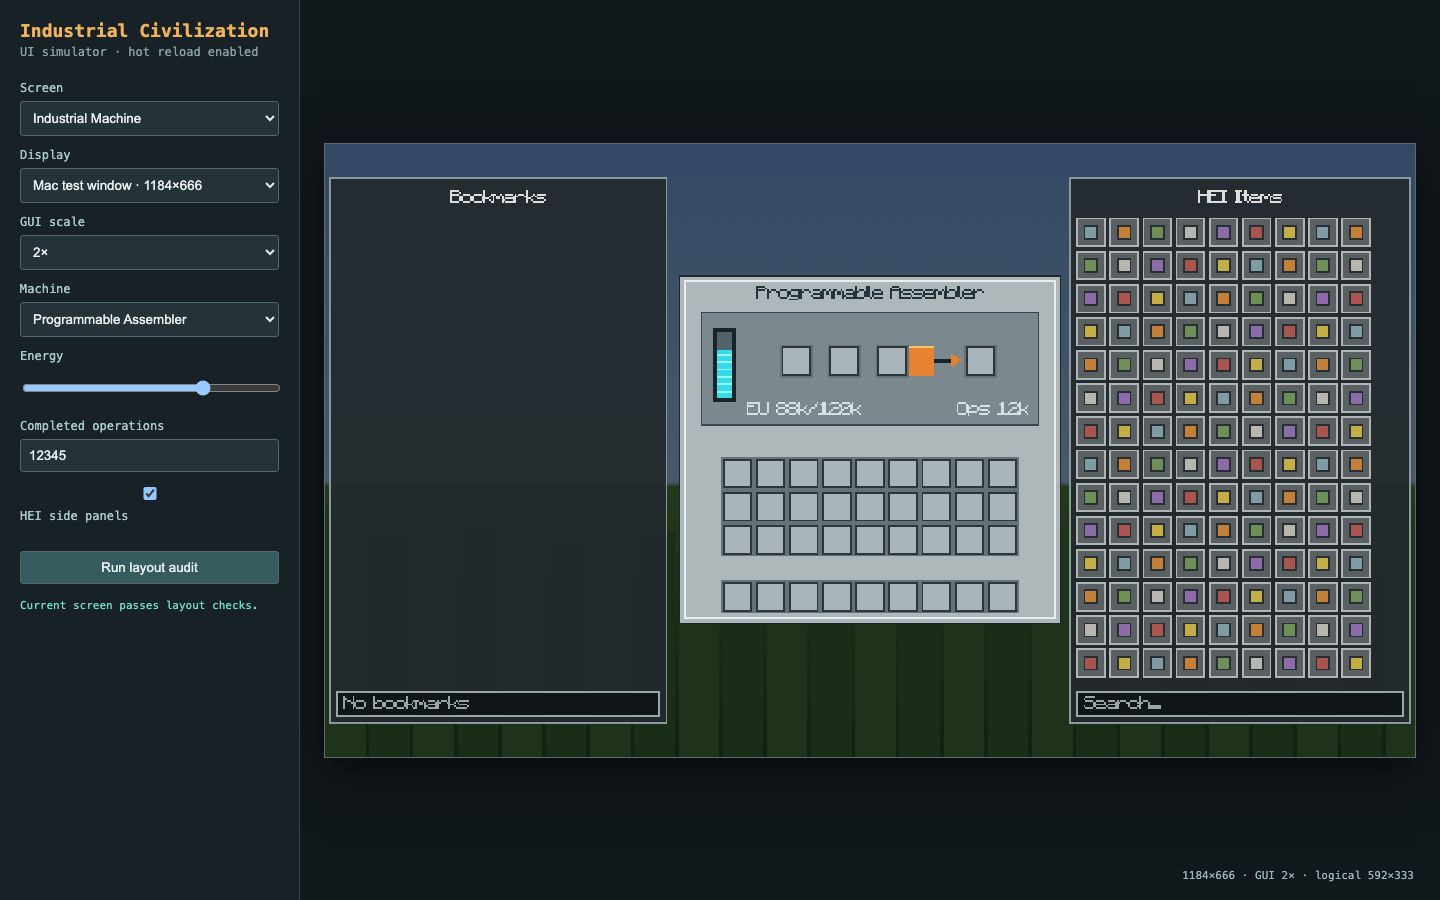
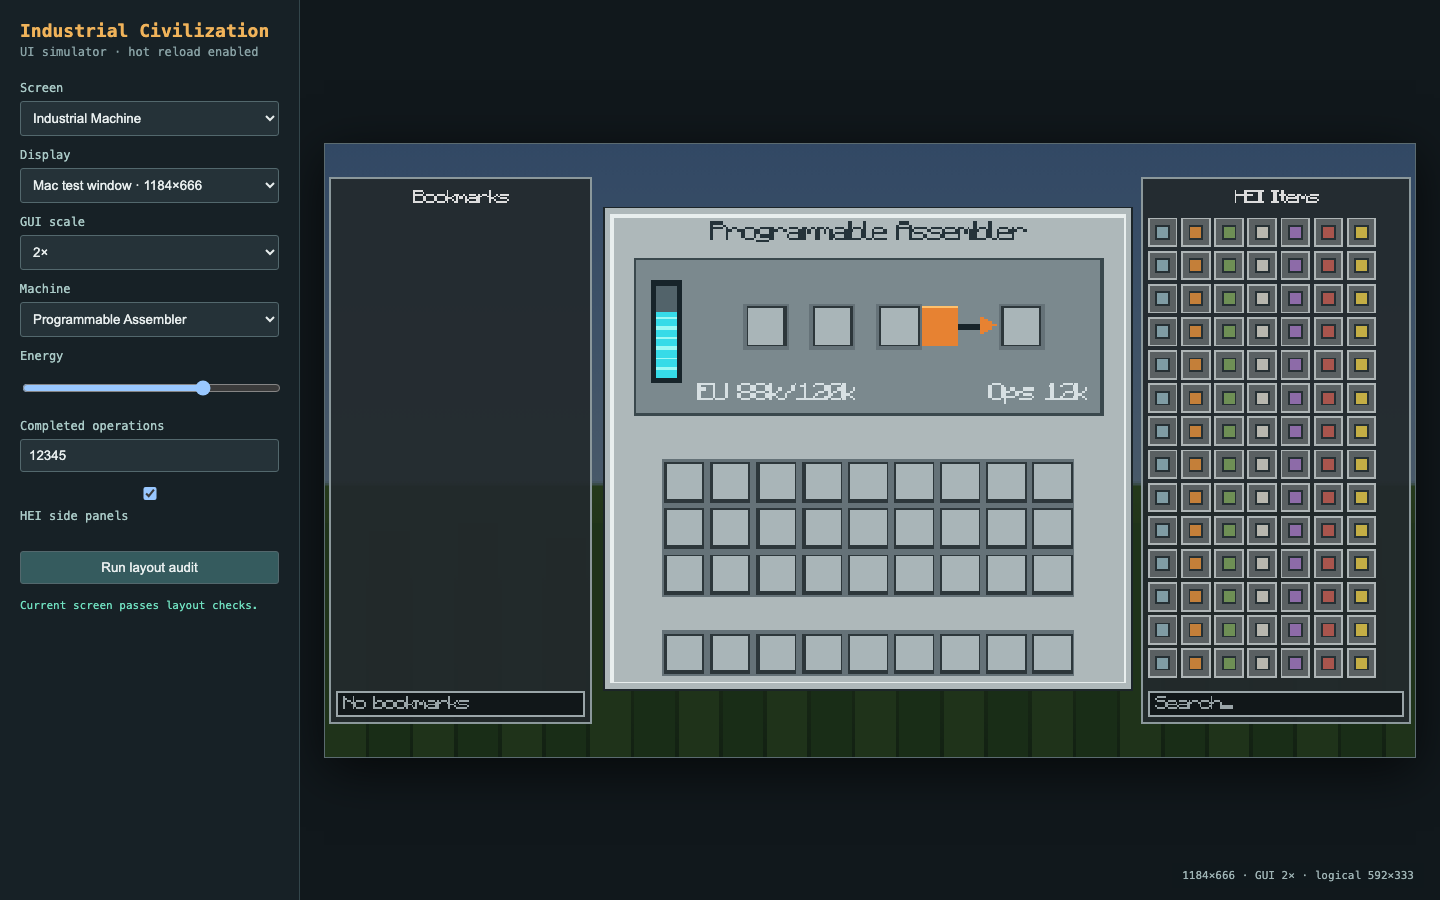
Scale machine GUI with window size

Changed region(s): [[0.4062, 0.1867, 0.9688, 0.8089], [0.3125, 0.2178, 0.375, 0.2489]]

diff --git a/tools/ui_simulator/app.js b/tools/ui_simulator/app.js
@@ -304,7 +304,9 @@ function renderSpaceMap(d, auditScreen = "spacemap") {
 }
 
 function machineLayout(d, machine, energyPercent, operations, auditScreen = "machine") {
-  const gui = {x: Math.floor((d.width - 208) / 2), y: Math.floor((d.height - 190) / 2), w: 208, h: 190};
+  const scale = Math.max(1, Math.min(d.width / 427, d.height / 240));
+  const gui = {x: Math.floor((d.width - 208 * scale) / 2), y: Math.floor((d.height - 190 * scale) / 2),
+    w: 208 * scale, h: 190 * scale};
   if (!contained(gui, {x: 0, y: 0, w: d.width, h: d.height})) issue(auditScreen, "208×190 machine panel does not fit the logical viewport", gui);
   const title = data.lang[`tile.industrialcivilizationcore.${machine.id}.name`] || machine.id;
   const shownTitle = trim(title, 184);
@@ -326,7 +328,7 @@ function machineLayout(d, machine, energyPercent, operations, auditScreen = "mac
   if (gaugeTopClearance < 8 || gaugeBottomClearance < 8) issue(auditScreen, `${machine.id}: energy gauge lacks dark-panel edge clearance`, {x: gui.x + 19, y: gui.y + 20, w: 12, h: 62});
   if (overlap(energyBox, energyMeter)) issue(auditScreen, `${machine.id}: energy text overlaps the energy meter`, {x: gui.x + 19, y: gui.y + 29, w: 12, h: 40});
   if (overlap(progressFill, inputSlot) || overlap(progressFill, outputSlot)) issue(auditScreen, `${machine.id}: progress connector overlaps an item slot`, {x: gui.x + 107, y: gui.y + 38, w: 66, h: 18});
-  return {gui, title: shownTitle, titleX: 12 + (184 - textWidth(shownTitle)) / 2,
+  return {gui, scale, title: shownTitle, titleX: 12 + (184 - textWidth(shownTitle)) / 2,
     energyText, operationsText, energyBox, opsBox, energy, progress: .62};
 }
 
@@ -334,20 +336,24 @@ function renderMachine(d, machineOverride, auditScreen) {
   worldBackground(d.width, d.height, true);
   const machine = machineOverride || data.machines.find(m => m.id === $("machine").value) || data.machines[0];
   const state = machineLayout(d, machine, Number($("energy").value), Number($("operations").value), auditScreen);
-  const {gui} = state;
+  const {gui, scale} = state;
   if ($("hei").checked) {
     const gap = 4;
     const leftW = Math.max(0, gui.x - gap), rightX = gui.x + gui.w + gap;
     if (leftW >= 64) renderHeiPanel(2, 18, leftW - 4, d.height - 36, "Bookmarks", false);
     if (d.width - rightX >= 64) renderHeiPanel(rightX, 18, d.width - rightX - 2, d.height - 36, "HEI Items", true);
   }
-  ctx.drawImage(machineTexture, 0, 0, 208, 190, gui.x, gui.y, 208, 190);
+  ctx.save();
+  ctx.translate(gui.x, gui.y);
+  ctx.scale(scale, scale);
+  ctx.drawImage(machineTexture, 0, 0, 208, 190, 0, 0, 208, 190);
   const energyHeight = Math.floor(36 * state.energy / machine.capacity);
-  if (energyHeight > 0) ctx.drawImage(machineTexture, 208, 36 - energyHeight, 8, energyHeight, gui.x + 21, gui.y + 67 - energyHeight, 8, energyHeight);
-  ctx.drawImage(machineTexture, 208, 49, Math.floor(23 * state.progress), 16, gui.x + 125, gui.y + 39, Math.floor(23 * state.progress), 16);
-  drawText(state.title, gui.x + state.titleX, gui.y + 6, "#25333a");
-  drawText(state.energyText, gui.x + state.energyBox.x, gui.y + 69, "#d7e0e3");
-  drawText(state.operationsText, gui.x + state.opsBox.x, gui.y + 69, "#d7e0e3");
+  if (energyHeight > 0) ctx.drawImage(machineTexture, 208, 36 - energyHeight, 8, energyHeight, 21, 67 - energyHeight, 8, energyHeight);
+  ctx.drawImage(machineTexture, 208, 49, Math.floor(23 * state.progress), 16, 125, 39, Math.floor(23 * state.progress), 16);
+  drawText(state.title, state.titleX, 6, "#25333a");
+  drawText(state.energyText, state.energyBox.x, 69, "#d7e0e3");
+  drawText(state.operationsText, state.opsBox.x, 69, "#d7e0e3");
+  ctx.restore();
 }
 
 function factionDetail(faction, width) {

diff --git a/development/IndustrialCivilizationCore/src/main/java/com/industrialcivilization/core/GuiIndustrialMachine.java b/development/IndustrialCivilizationCore/src/main/java/com/industrialcivilization/core/GuiIndustrialMachine.java
@@ -1,10 +1,14 @@
 package com.industrialcivilization.core;
 
+import java.io.IOException;
 import net.minecraft.client.gui.inventory.GuiContainer;
+import net.minecraft.client.renderer.GlStateManager;
 import net.minecraft.entity.player.InventoryPlayer;
 import net.minecraft.util.ResourceLocation;
 
 public final class GuiIndustrialMachine extends GuiContainer {
+    private static final int BASE_WIDTH = 208;
+    private static final int BASE_HEIGHT = 190;
     private static final int TITLE_LEFT = 12;
     private static final int TITLE_WIDTH = 184;
     private static final int STATUS_LEFT = 37;
@@ -18,12 +22,21 @@ public final class GuiIndustrialMachine extends GuiContainer {
     private static final ResourceLocation TEXTURE = new ResourceLocation(
         IndustrialCivilizationCore.MODID, "textures/gui/industrial_machine.png");
     private final TileIndustrialMachine tile;
+    private float interfaceScale = 1.0F;
 
     public GuiIndustrialMachine(InventoryPlayer inventory, TileIndustrialMachine tile) {
         super(new ContainerIndustrialMachine(inventory, tile));
         this.tile = tile;
-        xSize = 208;
-        ySize = 190;
+        xSize = BASE_WIDTH;
+        ySize = BASE_HEIGHT;
+    }
+
+    @Override
+    public void initGui() {
+        interfaceScale = GameplayRules.machineGuiScale(width, height);
+        xSize = Math.round(BASE_WIDTH * interfaceScale);
+        ySize = Math.round(BASE_HEIGHT * interfaceScale);
+        super.initGui();
     }
 
     @Override
@@ -33,8 +46,15 @@ public final class GuiIndustrialMachine extends GuiContainer {
         // their concrete GUI class, and HEI also relies on BackgroundDrawnEvent
         // firing here to lay out its side panels correctly on narrow screens.
         drawDefaultBackground();
-        super.drawScreen(mouseX, mouseY, partialTicks);
-        renderHoveredToolTip(mouseX, mouseY);
+        int virtualMouseX = toVirtualX(mouseX);
+        int virtualMouseY = toVirtualY(mouseY);
+        GlStateManager.pushMatrix();
+        GlStateManager.translate(guiLeft, guiTop, 0.0F);
+        GlStateManager.scale(interfaceScale, interfaceScale, 1.0F);
+        GlStateManager.translate(-guiLeft, -guiTop, 0.0F);
+        super.drawScreen(virtualMouseX, virtualMouseY, partialTicks);
+        renderHoveredToolTip(virtualMouseX, virtualMouseY);
+        GlStateManager.popMatrix();
     }
 
     @Override
@@ -56,9 +76,9 @@ public final class GuiIndustrialMachine extends GuiContainer {
     @Override
     protected void drawGuiContainerBackgroundLayer(float partialTicks, int mouseX, int mouseY) {
         mc.getTextureManager().bindTexture(TEXTURE);
-        int left = (width - xSize) / 2;
-        int top = (height - ySize) / 2;
-        drawTexturedModalRect(left, top, 0, 0, xSize, ySize);
+        int left = guiLeft;
+        int top = guiTop;
+        drawTexturedModalRect(left, top, 0, 0, BASE_WIDTH, BASE_HEIGHT);
 
         int energyHeight = tile.getCapacity() <= 0 ? 0
             : (int) ((long) ENERGY_BAR_HEIGHT * tile.getEnergyStored() / tile.getCapacity());
@@ -68,5 +88,37 @@ public final class GuiIndustrialMachine extends GuiContainer {
             : PROGRESS_WIDTH * tile.getProgress() / tile.getDuration();
         drawTexturedModalRect(left + PROGRESS_LEFT, top + 39,
             208, 49, progressWidth, 16);
+    }
+
+    @Override
+    protected void mouseClicked(int mouseX, int mouseY, int mouseButton) throws IOException {
+        super.mouseClicked(toVirtualX(mouseX), toVirtualY(mouseY), mouseButton);
+    }
+
+    @Override
+    protected void mouseClickMove(int mouseX, int mouseY, int clickedMouseButton,
+            long timeSinceLastClick) {
+        super.mouseClickMove(toVirtualX(mouseX), toVirtualY(mouseY),
+            clickedMouseButton, timeSinceLastClick);
+    }
+
+    @Override
+    protected void mouseReleased(int mouseX, int mouseY, int state) {
+        super.mouseReleased(toVirtualX(mouseX), toVirtualY(mouseY), state);
+    }
+
+    @Override
+    protected boolean hasClickedOutside(int mouseX, int mouseY, int guiLeft,
+            int guiTop) {
+        return mouseX < guiLeft || mouseY < guiTop
+            || mouseX >= guiLeft + BASE_WIDTH || mouseY >= guiTop + BASE_HEIGHT;
+    }
+
+    private int toVirtualX(int mouseX) {
+        return guiLeft + Math.round((mouseX - guiLeft) / interfaceScale);
+    }
+
+    private int toVirtualY(int mouseY) {
+        return guiTop + Math.round((mouseY - guiTop) / interfaceScale);
     }
 }

diff --git a/tools/ui_simulator/audit.py b/tools/ui_simulator/audit.py
@@ -87,11 +87,11 @@ def run_audit(base_url: str, chrome: Path, profile: Path) -> dict:
 def capture(base_url: str, chrome: Path, profile: Path, output: Path) -> None:
     output.mkdir(parents=True, exist_ok=True)
     screens = {
+        "machine-fusion-core.png": "screen=machine&machine=fusion_research_core&display=854x480&scale=2",
+        "machine-programmable-assembler.png": "screen=machine&machine=programmable_assembler&display=1184x666&scale=2",
         "main-menu-mac-window.png": "screen=mainmenu&display=1184x666&scale=2",
         "main-menu-small-window.png": "screen=mainmenu&display=854x480&scale=2",
         "pause-menu-small-window.png": "screen=pause&display=854x480&scale=2",
-        "machine-programmable-assembler.png": "screen=machine&machine=programmable_assembler&display=1184x666&scale=2",
-        "machine-fusion-core.png": "screen=machine&machine=fusion_research_core&display=854x480&scale=2",
         "factions-small-window.png": "screen=factions&faction=ashline_raiders&display=854x480&scale=2",
         "terrain-warmup-small-window.png": "screen=warmup&display=854x480&scale=2",
         "ai-credits-small-window.png": "screen=credits&display=854x480&scale=2",

diff --git a/tools/validate_runtime_content.py b/tools/validate_runtime_content.py
@@ -129,9 +129,13 @@ check(gui.getpixel((153, 46))[:3] == (231, 130, 50)
 source = "\n".join(path.read_text() for path in JAVA.glob("*.java"))
 machine_gui_source = (JAVA / "GuiIndustrialMachine.java").read_text()
 machine_container_source = (JAVA / "ContainerIndustrialMachine.java").read_text()
-check("xSize = 208" in machine_gui_source and "ySize = 190" in machine_gui_source
+check("BASE_WIDTH = 208" in machine_gui_source and "BASE_HEIGHT = 190" in machine_gui_source
       and "TITLE_WIDTH = 184" in machine_gui_source,
       "machine GUI uses the enlarged breathing-room workspace")
+check("machineGuiScale(width, height)" in machine_gui_source
+      and "GlStateManager.scale(interfaceScale" in machine_gui_source
+      and "toVirtualX" in machine_gui_source and "toVirtualY" in machine_gui_source,
+      "machine GUI scales responsively while preserving mouse hit testing")
 check("24 + col * 18, 100 + row * 18" in machine_container_source
       and "24 + col * 18, 167" in machine_container_source,
       "player inventory remains centered inside the enlarged workspace")

diff --git a/development/IndustrialCivilizationCore/src/test/java/com/industrialcivilization/core/GameplayRulesTest.java b/development/IndustrialCivilizationCore/src/test/java/com/industrialcivilization/core/GameplayRulesTest.java
@@ -4,6 +4,17 @@ import org.junit.Test;
 import static org.junit.Assert.*;
 
 public class GameplayRulesTest {
+    @Test public void machineGuiUsesNativeScaleAtMinimumWindow() {
+        assertEquals(1.0F, GameplayRules.machineGuiScale(427, 240), 0.0001F);
+    }
+    @Test public void machineGuiKeepsItsScreenShareOnLargeWindow() {
+        assertEquals(1.386F, GameplayRules.machineGuiScale(592, 333), 0.001F);
+    }
+    @Test public void machineGuiScaleUsesConstrainingScreenDimension() {
+        assertEquals(1.0F, GameplayRules.machineGuiScale(900, 240), 0.0001F);
+        assertEquals(1.0F, GameplayRules.machineGuiScale(427, 600), 0.0001F);
+    }
+
     @Test public void mainMenuTitleKeepsSmallWindowMinimum() {
         assertEquals(160, GameplayRules.mainMenuTitleWidth(427, 240));
     }

diff --git a/development/IndustrialCivilizationCore/src/main/java/com/industrialcivilization/core/GameplayRules.java b/development/IndustrialCivilizationCore/src/main/java/com/industrialcivilization/core/GameplayRules.java
@@ -2,6 +2,12 @@ package com.industrialcivilization.core;
 
 /** Pure deterministic rules shared with the headless mechanics test suite. */
 public final class GameplayRules {
+    public static float machineGuiScale(int screenWidth, int screenHeight) {
+        float widthScale = Math.max(0, screenWidth) / 427.0F;
+        float heightScale = Math.max(0, screenHeight) / 240.0F;
+        return Math.max(1.0F, Math.min(widthScale, heightScale));
+    }
+
     public static int mainMenuTitleWidth(int screenWidth, int screenHeight) {
         int proportional = Math.round(Math.max(0, screenWidth) * 0.40F);
         int widthLimit = Math.max(160, screenWidth - 32);
